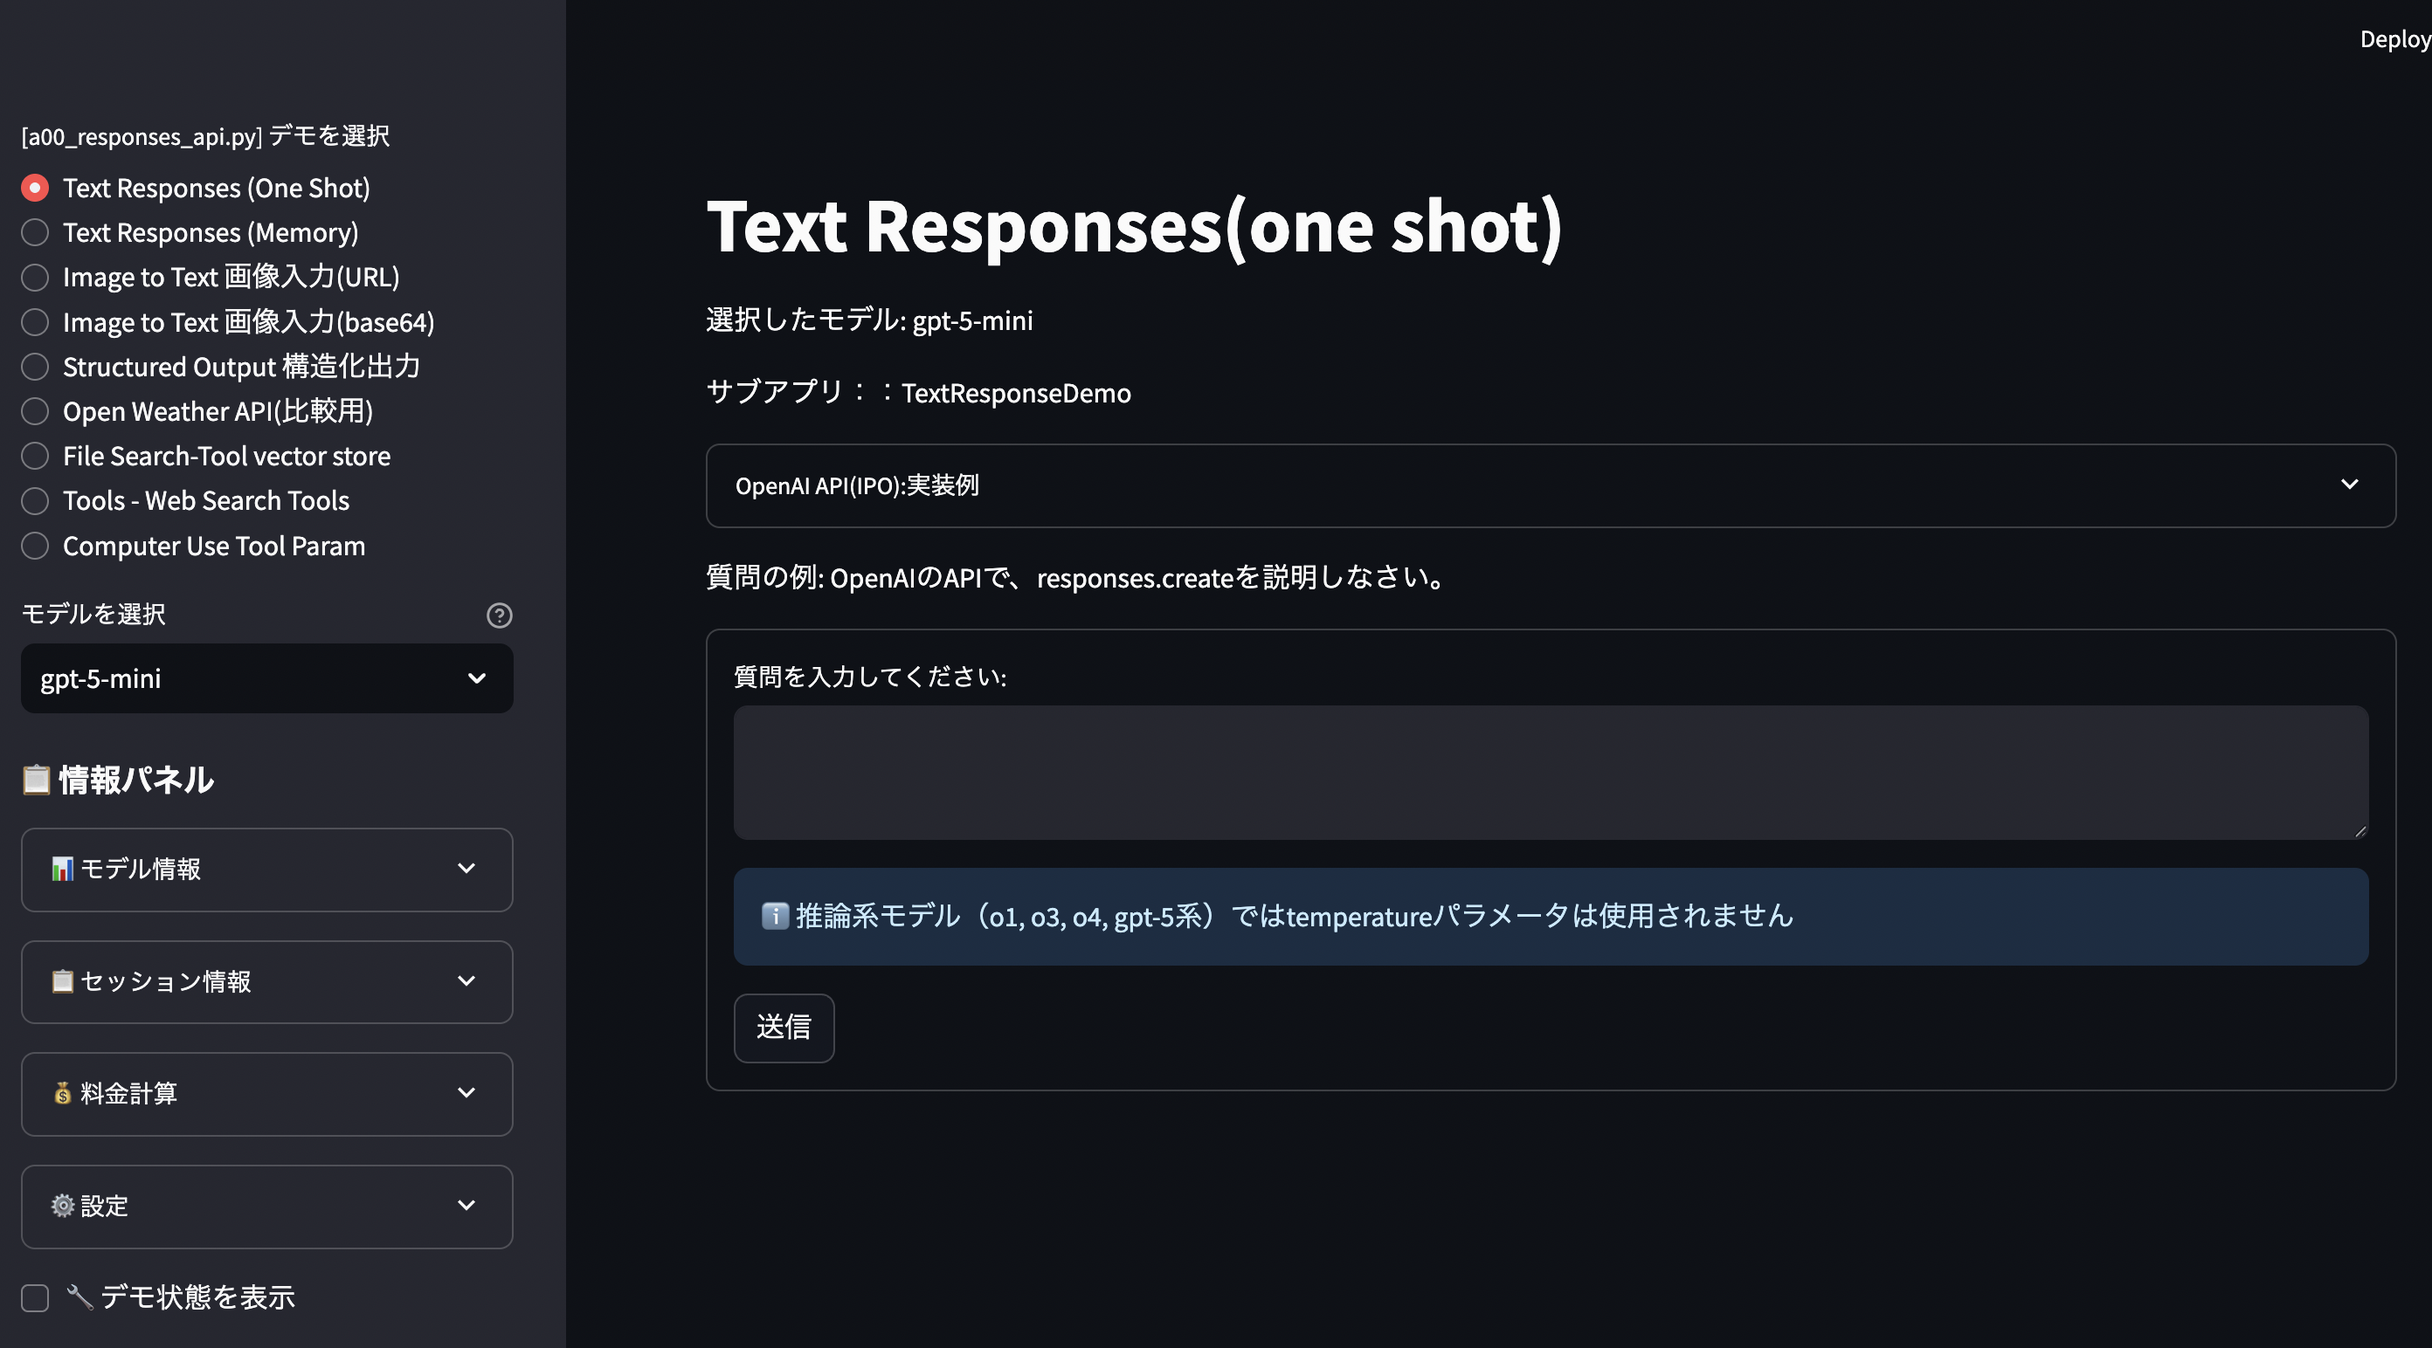
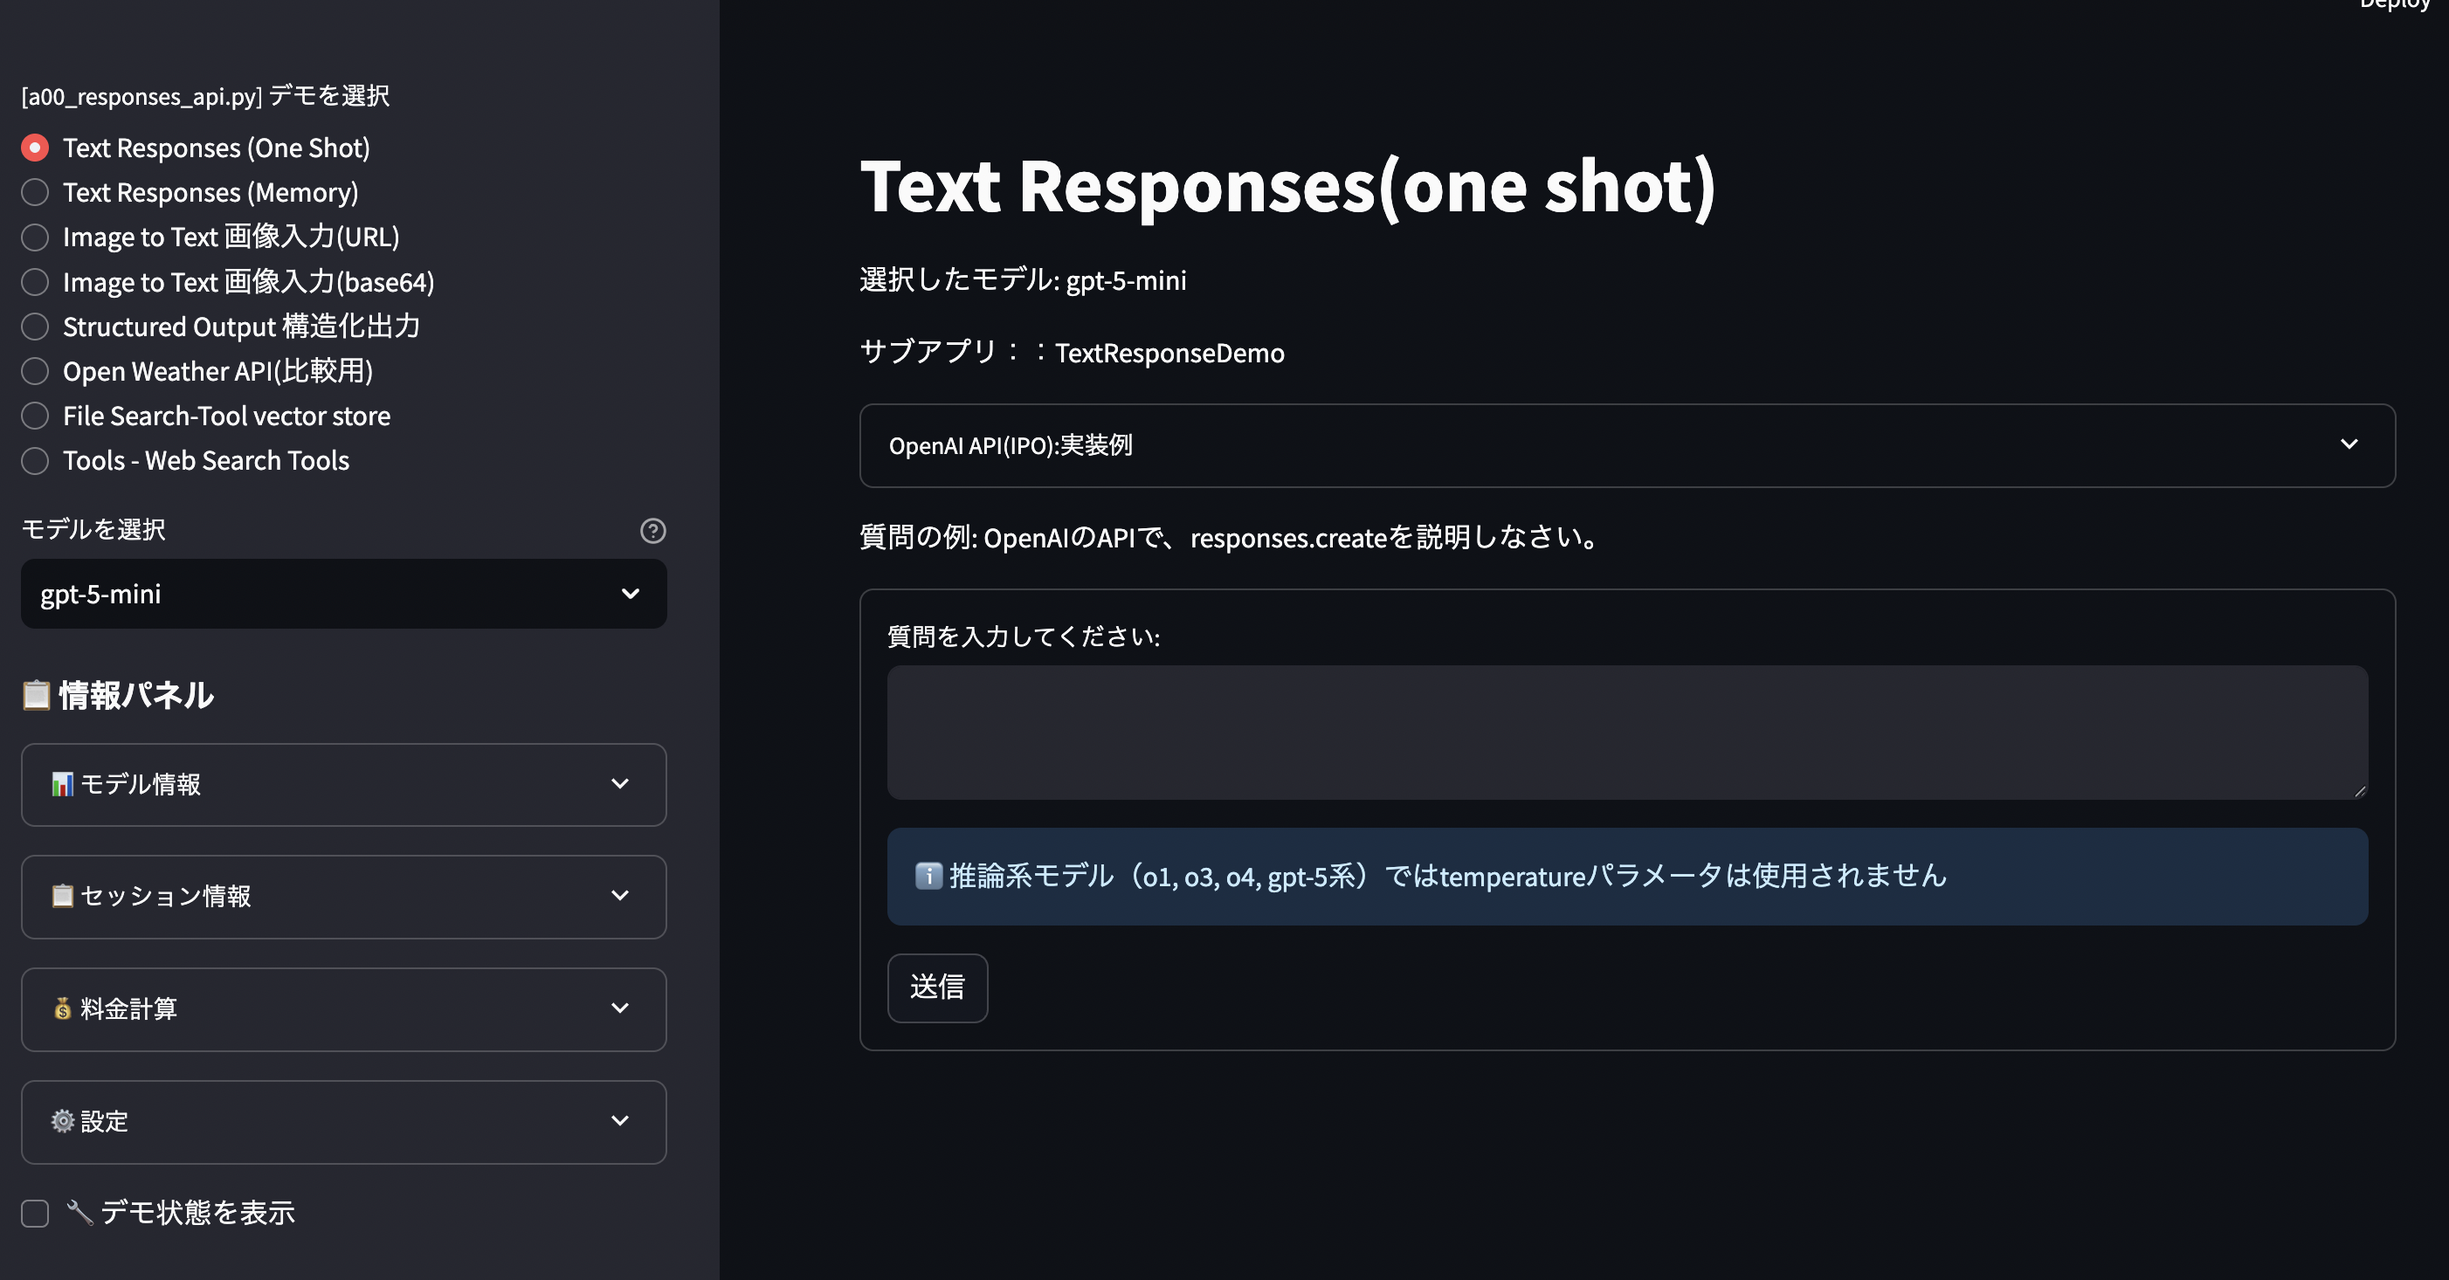
2025-0826-1

diff --git a/a00_responses_api.py b/a00_responses_api.py
@@ -2371,84 +2371,7 @@ class WebSearchToolsDemo(BaseDemo):
 # ==================================================
 class ComputerUseDemo(BaseDemo):
     """Computer Use Tool のデモ（統一化版）"""
-
-    @error_handler_ui
-    @timer_ui
-    def run(self):
-        """デモの実行（統一化版）"""
-        self.initialize()
-        st.write("サブアプリ：ComputerUseDemo")
-        st.header("Computer Useデモ")
-        st.write("利用：OpenAI API")
-        st.warning("Computer Use APIは実験的な機能です。実行には特別な権限が必要です。")
-
-        model = "computer-use-preview"
-        st.write("使用モデル:", model)
-
-        instruction = st.text_area(
-            "実行指示",
-            value="ブラウザで https://news.ycombinator.com を開いて、"
-                  "トップ記事のタイトルをコピーしてメモ帳に貼り付けて",
-            height=100
-        )
-
-        # Literal型の制約に対応
-        environment: Literal["browser", "mac", "windows", "ubuntu", "linux"] = st.selectbox(
-            "実行環境",
-            ["browser", "mac", "windows", "ubuntu"],
-            key=f"cu_env_{self.safe_key}"
-        )
-
-        if st.button("Computer Use実行", key=f"cu_exec_{self.safe_key}"):
-            self._execute_computer_use(model, instruction, environment)
-
-    def _execute_computer_use(self, model: str, instruction: str,
-                              environment: Literal["windows", "mac", "linux", "ubuntu", "browser"]):
-        """Computer Useの実行（統一化版）"""
-        try:
-            cu_tool = ComputerToolParam(
-                type="computer_use_preview",
-                display_width=1280,
-                display_height=800,
-                environment=environment,
-            )
-
-            messages = [
-                EasyInputMessageParam(
-                    role="user",
-                    content=[
-                        ResponseInputTextParam(
-                            type="input_text",
-                            text=instruction
-                        )
-                    ]
-                )
-            ]
-
-            with st.spinner("実行中..."):
-                response = self.call_api_unified(
-                    messages=messages,
-                    model=model,
-                    tools=[cu_tool],
-                    truncation="auto",
-                    stream=False,
-                    include=["computer_call_output.output.image_url"]
-                )
-
-            st.subheader("実行結果")
-            ResponseProcessorUI.display_response(response)
-
-            # Computer Use特有の出力処理
-            for output in response.output:
-                if hasattr(output, 'type') and output.type == 'computer_call':
-                    st.subheader("Computer Use アクション")
-                    if hasattr(output, 'action'):
-                        st.write('実行アクション:', output.action)
-                    if hasattr(output, 'image_url'):
-                        st.image(output.image_url, caption="スクリーンショット")
-
-        except Exception as e:
-            self.handle_error(e)
+    pass
 
 # ==================================================
 # デモマネージャー
@@ -2471,7 +2394,7 @@ class DemoManager:
             "Open Weather API(比較用)" : WeatherDemo("OpenWeatherAPI"),
             "File Search-Tool vector store": FileSearchVectorStoreDemo("FileSearch_vsid"),
             "Tools - Web Search Tools"     : WebSearchToolsDemo("WebSearch"),
-            "Computer Use Tool Param"      : ComputerUseDemo("Computer_Use"),
+            # "Computer Use Tool Param"      : ComputerUseDemo("Computer_Use"),
         }
 
     @error_handler_ui

diff --git a/claude_jp.md b/claude_jp.md
@@ -11,25 +11,28 @@
 ### 各デモの実行
 ```bash
 # メイン統合デモ（ポート8501）
-streamlit run a10_00_responses_api.py --server.port=8501
+streamlit run a00_responses_api.py --server.port=8501
 
 # 構造化出力デモ
-streamlit run a10_01_structured_outputs_parse_schema.py --server.port=8501
+streamlit run a01_structured_outputs_parse_schema.py --server.port=8501
 
 # ツール・Pydantic解析（ポート8502）
-streamlit run a10_02_responses_tools_pydantic_parse.py --server.port=8502
+streamlit run a02_responses_tools_pydantic_parse.py --server.port=8502
 
 # 画像・ビジョン（ポート8503）
-streamlit run a10_03_images_and_vision.py --server.port=8503
+streamlit run a03_images_and_vision.py --server.port=8503
 
 # 音声処理（ポート8504）
-streamlit run a10_04_audio_speeches.py --server.port=8504
+streamlit run a04_audio_speeches.py --server.port=8504
 
 # 会話状態管理（ポート8505）
-streamlit run a10_05_conversation_state.py --server.port=8505
+streamlit run a05_conversation_state.py --server.port=8505
 
 # 思考連鎖推論（ポート8506）
-streamlit run a10_06_reasoning_chain_of_thought.py --server.port=8506
+streamlit run a06_reasoning_chain_of_thought.py --server.port=8506
+
+# Vector Store ID管理ユーティリティ
+python a10_get_vsid.py
 ```
 
 ### テスト実行
@@ -63,13 +66,17 @@ export EXCHANGERATE_API_KEY='your-exchangerate-api-key'
 ## アーキテクチャ
 
 ### 主要エントリーポイント
-- **a10_00_responses_api.py** - 全OpenAI機能を統合したメインデモ
-- **a10_01_structured_outputs_parse_schema.py** - スキーマ検証付き構造化出力
-- **a10_02_responses_tools_pydantic_parse.py** - Pydanticベースの解析と関数呼び出し
-- **a10_03_images_and_vision.py** - 画像生成とビジョンAPIのデモンストレーション
-- **a10_04_audio_speeches.py** - テキスト読み上げ、転写、リアルタイム音声
-- **a10_05_conversation_state.py** - `previous_response_id`を使った会話状態管理
-- **a10_06_reasoning_chain_of_thought.py** - 思考連鎖推論パターン
+- **a00_responses_api.py** - 全OpenAI機能を統合したメインデモ
+- **a01_structured_outputs_parse_schema.py** - スキーマ検証付き構造化出力
+- **a02_responses_tools_pydantic_parse.py** - Pydanticベースの解析と関数呼び出し
+- **a03_images_and_vision.py** - 画像生成とビジョンAPIのデモンストレーション
+- **a04_audio_speeches.py** - テキスト読み上げ、転写、リアルタイム音声
+- **a05_conversation_state.py** - `previous_response_id`を使った会話状態管理
+- **a06_reasoning_chain_of_thought.py** - 思考連鎖推論パターン
+
+### ユーティリティスクリプト
+- **a10_get_vsid.py** - Vector Store ID管理ユーティリティ
+- **get_cities_list.py** - 天気APIのための都市リストデータ処理
 
 ### ヘルパーモジュール
 
@@ -100,6 +107,8 @@ export EXCHANGERATE_API_KEY='your-exchangerate-api-key'
 - リアルタイム音声処理
 - マルチモーダル入力処理（テキスト、画像、音声）
 - 思考連鎖推論パターン
+- 外部API統合（OpenWeatherMap、Exchange Rate API）
+- Vector Store管理ユーティリティ
 
 ## 開発上の注意事項
 
@@ -110,3 +119,24 @@ export EXCHANGERATE_API_KEY='your-exchangerate-api-key'
 - 並行テスト用に各デモが異なるポートで動作
 - `/data`と`/images`ディレクトリにサンプルデータファイルを含む
 - カスタムマーカーによる複数テストタイプをサポートするテスト設定
+- `/utils`ディレクトリに各種ヘルパー機能
+- `/doc`ディレクトリに詳細なmarkdownドキュメント
+- `/assets`ディレクトリにUIスクリーンショットとサンプル画像
+
+## プロジェクト構造
+
+```
+├── a00_responses_api.py           # メイン統合デモ
+├── a01-a06_*.py                   # 個別機能デモ
+├── a10_get_vsid.py                # Vector Storeユーティリティ
+├── helper_api.py                  # 中核API機能
+├── helper_st.py                   # Streamlit UIヘルパー
+├── config.yml                     # 中央設定ファイル
+├── requirements.txt               # Python依存関係
+├── pytest.ini                     # テスト設定
+├── data/                          # サンプルデータファイル
+├── images/                        # サンプル画像
+├── assets/                        # UIアセットとスクリーンショット
+├── doc/                           # ドキュメント
+└── utils/                         # ユーティリティスクリプト
+```

diff --git a/CLAUDE.md b/CLAUDE.md
@@ -11,25 +11,28 @@ This is an educational Python application for learning OpenAI API capabilities t
 ### Running Individual Demos
 ```bash
 # Main integrated demo (port 8501)
-streamlit run a10_00_responses_api.py --server.port=8501
+streamlit run a00_responses_api.py --server.port=8501
 
 # Structured outputs demo  
-streamlit run a10_01_structured_outputs_parse_schema.py --server.port=8501
+streamlit run a01_structured_outputs_parse_schema.py --server.port=8501
 
 # Tools and Pydantic parsing (port 8502)
-streamlit run a10_02_responses_tools_pydantic_parse.py --server.port=8502
+streamlit run a02_responses_tools_pydantic_parse.py --server.port=8502
 
 # Images and vision (port 8503)
-streamlit run a10_03_images_and_vision.py --server.port=8503
+streamlit run a03_images_and_vision.py --server.port=8503
 
 # Audio processing (port 8504)
-streamlit run a10_04_audio_speeches.py --server.port=8504
+streamlit run a04_audio_speeches.py --server.port=8504
 
 # Conversation state management (port 8505)
-streamlit run a10_05_conversation_state.py --server.port=8505
+streamlit run a05_conversation_state.py --server.port=8505
 
 # Chain of thought reasoning (port 8506)
-streamlit run a10_06_reasoning_chain_of_thought.py --server.port=8506
+streamlit run a06_reasoning_chain_of_thought.py --server.port=8506
+
+# Vector Store ID utility
+python a10_get_vsid.py
 ```
 
 ### Testing
@@ -63,13 +66,17 @@ export EXCHANGERATE_API_KEY='your-exchangerate-api-key'
 ## Architecture
 
 ### Core Entry Points
-- **a10_00_responses_api.py** - Main integrated demo showcasing all OpenAI features
-- **a10_01_structured_outputs_parse_schema.py** - Structured outputs with schema validation 
-- **a10_02_responses_tools_pydantic_parse.py** - Pydantic-based parsing and function calling
-- **a10_03_images_and_vision.py** - Image generation and vision API demonstrations
-- **a10_04_audio_speeches.py** - Text-to-speech, transcription, and realtime audio
-- **a10_05_conversation_state.py** - Conversation state management using `previous_response_id`
-- **a10_06_reasoning_chain_of_thought.py** - Chain-of-thought reasoning patterns
+- **a00_responses_api.py** - Main integrated demo showcasing all OpenAI features
+- **a01_structured_outputs_parse_schema.py** - Structured outputs with schema validation 
+- **a02_responses_tools_pydantic_parse.py** - Pydantic-based parsing and function calling
+- **a03_images_and_vision.py** - Image generation and vision API demonstrations
+- **a04_audio_speeches.py** - Text-to-speech, transcription, and realtime audio
+- **a05_conversation_state.py** - Conversation state management using `previous_response_id`
+- **a06_reasoning_chain_of_thought.py** - Chain-of-thought reasoning patterns
+
+### Utility Scripts
+- **a10_get_vsid.py** - Vector Store ID management utility
+- **get_cities_list.py** - City list data processing for weather APIs
 
 ### Helper Modules
 
@@ -100,6 +107,8 @@ export EXCHANGERATE_API_KEY='your-exchangerate-api-key'
 - Real-time audio processing
 - Multi-modal input handling (text, images, audio)
 - Chain-of-thought reasoning patterns
+- External API integrations (OpenWeatherMap, Exchange Rate API)
+- Vector Store management utilities
 
 ## Development Notes
 
@@ -110,3 +119,24 @@ export EXCHANGERATE_API_KEY='your-exchangerate-api-key'
 - Each demo runs on different ports for parallel testing
 - Includes sample data files in `/data` and `/images` directories
 - Test configuration supports multiple test types with custom markers
+- Utility scripts in `/utils` directory for various helper functions
+- Comprehensive documentation in `/doc` directory with detailed markdown files
+- Assets directory contains UI screenshots and sample images
+
+## Project Structure
+
+```
+├── a00_responses_api.py           # Main integrated demo
+├── a01-a06_*.py                   # Individual feature demos
+├── a10_get_vsid.py                # Vector Store utility
+├── helper_api.py                  # Core API functionality
+├── helper_st.py                   # Streamlit UI helpers
+├── config.yml                     # Central configuration
+├── requirements.txt               # Python dependencies
+├── pytest.ini                     # Test configuration
+├── data/                          # Sample data files
+├── images/                        # Sample images
+├── assets/                        # UI assets and screenshots
+├── doc/                           # Documentation
+└── utils/                         # Utility scripts
+```

diff --git a/README.md b/README.md
@@ -7,15 +7,17 @@
 - 基本的な使用法から高度な応用まで段階的に学習できます。
 
 #### 環境のセットアップ
+
 [環境セットアップ](https://./README_setup.md)
 
 #### ドキュメント、設計書：
+
 [ドキュメント] ./doc/ 以下のディレクトリ、プログラムと同名のファイル.md
----
+-----------------------------------------------------------------------
 
 ## a00_responses_api.py 画面
 
-![a00_image.png](assets/a00_image.png)
+![image.png](assets/a00_image.png?t=1756205198890)
 
 ### a01_structured_outputs_parse_schema.py　画面
 
@@ -54,7 +56,6 @@
 | Open Weather API          | 外部API連携デモ。OpenWeatherMap APIを使用したリアルタイム天気情報取得               |
 | File Search-Tool          | Vector Store検索デモ。ファイル検索ツールによるRAG（検索拡張生成）実装               |
 | Web Search Tools          | Web検索ツール専用デモ。地域設定対応のリアルタイムWeb検索機能                        |
-| Computer Use Tool         | Computer Use APIデモ。AI によるコンピューター操作の自動化（実験的機能）             |
 
 **主要API**: `responses.create`, Vector Stores API, OpenWeatherMap API, Web Search Tool, Computer Use Tool
 
@@ -249,7 +250,7 @@ export EXCHANGERATE_API_KEY='your-exchangerate-api-key'
 
 #### 左ペイン
 
-![image.png](assets/l_painimage.png)
+![l_image.png](assets/l_painimage.png)
 
 ### セットアップ
 
